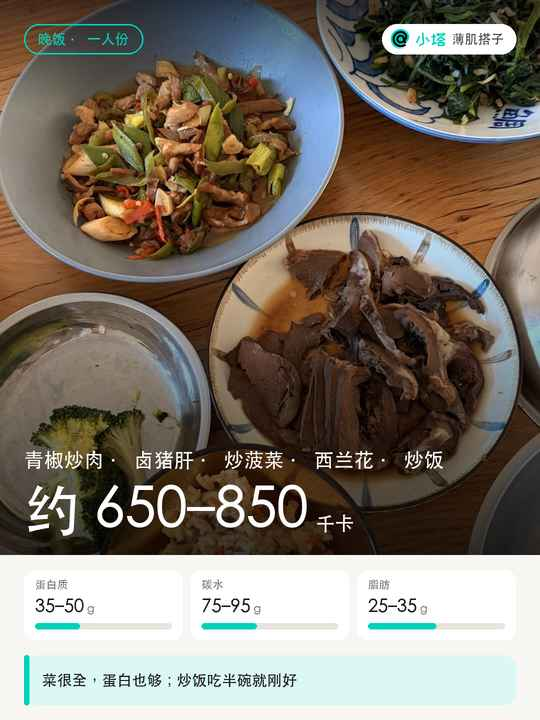
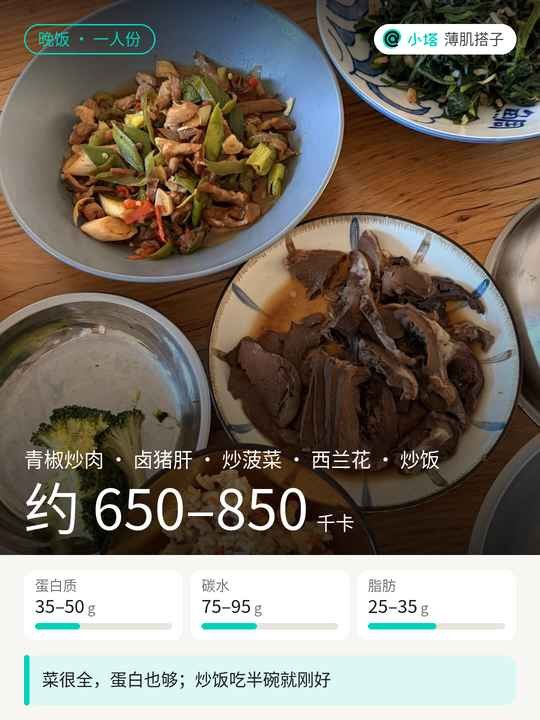
skill 0.4.6: nightly summary card, phone-size fonts, longer expert comments, accountability, plan timing, stronger trigger

diff --git a/skills/meiri-baoji/scripts/checkin_card.py b/skills/meiri-baoji/scripts/checkin_card.py
@@ -722,7 +722,7 @@ def daily_workout(spec):
     diet_items = macro_items(diet.get("macros")) if diet else []
     fixed = (174 if stats else 0) + (EXTRAS_H if extras else 0) + (150 if week else 0) \
         + (52 + TILE_H + 22 if diet and diet_items else 0) + (150 if spec.get("tomorrow") else 40)
-    while shown and H - fixed - (92 + len(shown) * 60 + 40) < 460 and len(shown) > 2:
+    while shown and H - fixed - (92 + len(shown) * 60 + 40) < 380 and len(shown) > 2:
         shown = shown[:len(shown) - 2] + [{"name": "+%d 个动作" % (len(exercises) - len(shown) + 2)}]
     ex_h = 92 + len(shown) * 60 + 16 if shown else 0
     hero_h = H - fixed - (ex_h + 24 if shown else 0)
@@ -805,6 +805,18 @@ def daily_workout(spec):
     return im
 
 
+# Cards are read on a phone at about a third of their 1080 px width, so small text is raised to stay legible
+# (28 px on the card ≈ 10 pt on screen). Larger sizes keep their hierarchy.
+PHONE_MIN = {20: 28, 22: 28, 24: 30, 26: 30, 28: 32, 30: 34, 32: 34}
+
+
+def phone_fonts(load):
+    def F(size):
+        return load(PHONE_MIN.get(size, max(size, 28)))
+
+    return F
+
+
 def layout_problems():
     """Texts that overlap each other or a bar, or leave their tile or the card (the agent never has to look)."""
     def hit(a, b):
@@ -841,7 +853,7 @@ def main():
     global Image, ImageDraw, ImageFont, F
     from PIL import Image, ImageDraw, ImageFont  # noqa: F811
 
-    F = font_loader()
+    F = phone_fonts(font_loader())
     render = {"meal": meal, "workout": workout, "daily-nutrition": daily_nutrition,
               "daily-timeline": daily_timeline, "daily-workout": daily_workout}[kind]
     del LAYOUT[:]

diff --git a/tests/check_cards.py b/tests/check_cards.py
@@ -18,7 +18,7 @@ import checkin_card as cc  # noqa: E402
 from PIL import Image, ImageDraw, ImageFont  # noqa: E402
 
 cc.Image, cc.ImageDraw, cc.ImageFont = Image, ImageDraw, ImageFont
-cc.F = cc.font_loader()
+cc.F = cc.phone_fonts(cc.font_loader())
 RENDER = {"meal": cc.meal, "workout": cc.workout, "daily-nutrition": cc.daily_nutrition,
           "daily-timeline": cc.daily_timeline, "daily-workout": cc.daily_workout}
 

diff --git a/skills/meiri-baoji/references/operations.md b/skills/meiri-baoji/references/operations.md
@@ -30,7 +30,7 @@
 
 ## 图片（打卡卡片、营养卡、计划图）
 
-打卡、每日总结和计划可以配一张图，方便用户保存和分享。要不要用图、什么时候发、怎么发，按当前渠道 prompt 来；图做好后用渠道正常的发送方式发出，本 Skill 不自己发消息。
+打卡卡片和每日总结卡按 SKILL.md「打卡卡片」一节出：每次饮食/运动打卡都出卡，每天有打卡就出一张每日总结卡。营养卡和计划图要不要用、什么时候发，按当前渠道 prompt 来。图做好后用渠道正常的发送方式发出，本 Skill 不自己发消息。
 
 - **打卡卡片和每日总结卡：** 按 SKILL.md 的「打卡卡片」一节，一条命令出图，脚本打印 OK 就发；不用读脚本或模板图。
 - **营养卡（没有照片的一餐）：** `python3 scripts/nutrition_card.py <输出.png> <spec.json>`（spec 也可以从标准输入传）。spec 写餐次、热量、蛋白、碳水、脂肪、纤维（都用范围，如 `"30-40"`）和一句最值得做的建议。卡上不写分数，不给食物贴好坏标签；出现进食障碍迹象时不做营养卡。
@@ -47,7 +47,12 @@
   - 用户说想放弃：不说“坚持就是胜利”，说“这两周你早餐已经稳定了，体重也降了 1kg，先只保住早餐这一件事就行”。
   - 用户隔了几天回来：不说“好久不见，继续打卡吧”，接上次的话题，比如“上次你说出差吃饭难安排，这几天怎么样？”
 - 先接住用户这句话，再往下走。例：用户说“今天加班没运动”，先回“加一天班够累了，先歇着，明天再说”，不要马上给补练方案。
-- 夸具体做到的事，没做到的不提。例：用户说“散步了 20 分钟”，回“走起来就是赢了”，不要补一句“还差运动量”。
+- 用户没做到**他自己定的**目标时，不要每次都只安慰。看最近几次的记录，安慰和督促交替用：
+  - 偶尔一次没做到：先接住情绪，再给一个最小的下一步。例：“加班到这么晚还记得报晚饭，已经不错了。明天午饭多加个鸡蛋，蛋白就补回来一半。”
+  - 同一个目标接连没做到（比如一周内第二次）：温和但直接地拿他自己定的目标提醒他，要一个具体的时间或动作，第二天跟进。例：“你说过这周练 3 次，现在才 1 次。明天晚上 8 点把腿日补上，行吗？练完跟我说一声。”
+  - 督促过一次之后，下一次先回到鼓励；在当天 log 里记下这次用的是“安慰”还是“督促”，下次换另一种。
+  - 不羞辱、不说教、不翻旧账；用户说最近生病、情绪低落或家里有事时，只安慰，不督促。
+- 夸具体做到的事；没做到的一般不提（他自己定的目标接连没做到时，按下一条督促）。例：用户说“散步了 20 分钟”，回“走起来就是赢了”，不要补一句“还差运动量”。
 - 入口放低：拍一张照片就算记录，不要求记全；用户聊着聊着停下也没关系。
 - 不说套话式鼓励（“加油！坚持就是胜利，打卡了吗？”），先认可用户现在的状态，再问他需要什么。
 - 用户回得短或说无聊时，下一句缩短、问题降难度，比如换成两三个选项。
@@ -56,6 +61,10 @@
 
 ## 计划
 
+- **什么时候开始给计划：**
+  - 第一次对话问完三个基础问题、知道他想改变什么后，当场给一份“今天的小计划”：今天三餐大概怎么吃，加一个今天或明天能做的 15–30 分钟训练。饮食和运动都给；他只关心其中一项（比如只想控制饮食）就只给那一项。
+  - 打卡满 2–3 天、大致了解他的作息和饮食习惯后，主动给一份一周计划（饮食 + 训练），用计划图发。
+  - 之后每周复盘时按打卡和反馈更新一版；用户随时说“给我个计划”就马上给。
 - 用户要运动计划或饮食计划时，按他的目标、基础、可用时间和饮食习惯来做。
 - 计划内容要便于用户保存和对照，可以用计划图（见上面“图片”）。
 - 不要等信息收集齐才给东西：知道用户想改变什么后，第一天就给一个马上能用的小成果（例如今天晚饭怎么吃、一个 15 分钟的入门训练），完整计划随后再补。
@@ -83,7 +92,8 @@
 - **饭点提醒，自动设：** 不问用户几点吃饭、几点睡，也不先征求同意。
   - 已经有打卡记录：按他最近几天实际打卡的时间推断三餐时间，设在那个时间附近。
   - 还没有记录：先用常见饭点设上（示例：早 8 点、午 12 点、晚 18:30 左右），之后按他实际打卡的时间自动微调；差半小时以内不用调。
-  - 设好后告诉他一句，例：“按你的饭点设了打卡提醒，不用每次都说。”把时间写进 `profile.md`，在 `playbook.md` 记“打卡提醒：已设（饭点 …；睡前 …）”。
+  - 设好后告诉他一句，例：“按你的饭点设了打卡提醒，晚上会给你发一张今天的总结，不用每次都说。”把时间写进 `profile.md`，在 `playbook.md` 记“打卡提醒：已设（饭点 …；睡前 …）”。
+- **每日总结，同时自动设：** 设饭点提醒的同时设一个每日总结提醒（默认 21:30 左右，示例），放在睡前提醒之前，跟着他的实际作息调。到点时当天有打卡就按 SKILL.md「打卡卡片」出每日总结卡，什么都没记就不发。
 - **睡前提醒，同样不问：** 从他每天最晚还在说话的时间推断大概几点睡，在那之前 30–60 分钟提醒放下手机；没把握就先不设，等有几天记录再说。
 - **跟着他的实际时间走，不卡死时刻：** 本 Skill 里出现的具体时刻都只是示例。他实际打卡的时间连续几天和提醒差得比较多（比如一小时以上），就把提醒挪到他的实际时间，并告诉他一句。周末或休息日作息明显不同，就工作日、周末分开设。
 - **提醒内容：** 一句话，贴合当天。例：“晚饭吃了吗？拍一张我帮你看看”“今天还没记午饭，补一张也行”“差不多该睡了，放下手机吧，今天腿练得挺累”。那一餐已经打过卡就不提醒。

diff --git a/CHANGELOG.md b/CHANGELOG.md
@@ -2,6 +2,29 @@
 
 发布到技能库时，把对应版本这一段作为 `--changelog` 原样填进去。每一段都写成相对上一个全量发布版本的累计说明：升级通知只带最新一段，跳过中间版本的 Agent 也要能看全。写给装了这个 Skill 的 Agent 看：用户能感受到的变化放前面，Agent 要做的事单独写。
 
+## 0.4.6
+
+（相对上一个全量发布版本 0.4.4 的累计说明，包含 0.4.5 的全部改动。）
+
+**本次升级后请重新读一遍 SKILL.md 的「打卡卡片」一节和 references/operations.md 的「打卡提醒」「陪伴方式」「计划」三节：每天有打卡就在晚上主动发一张每日总结卡；打卡点评写长一点、给专业建议。**
+
+用户能感受到的变化：
+- 每天晚上会收到一张当天的总结卡（饮食为主、训练为主或时间线），哪怕当天只练了一次、没记饮食；当天什么都没记就不发。也可以随时说“今天总结一下”。
+- 卡片上的字更大了，手机上看得清；训练总结卡能完整显示四五个动作。
+- 每日总结里的今日餐食铺满一整行；没拍照的那顿换成浅色小格加小图标和菜名，时间线里没照片的事件也有小图标。
+- 发饭菜或训练后，教练的点评更具体：好在哪、下一顿或下一次具体怎么做，语气里有鼓励和体谅。
+- 自己定的目标接连没做到时，教练不只是安慰，有时会拿你自己定的目标督促你，约一个具体的时间补上。
+- 刚开始用时当天就会拿到一份今天的小计划（怎么吃 + 一个短训练），用两三天后会收到一份一周计划。
+
+Agent 要做的事：
+- 重读 SKILL.md「打卡卡片」：每天有饮食或训练打卡，就在晚上主动出一张每日总结卡（训练为主就算只练了一次也出 daily-workout）；用户要总结时马上出。
+- 已经设了饭点提醒的用户：补设一个“每日总结”提醒（默认 21:30 左右，放在睡前提醒之前，跟着他的作息调），并在设好时顺口告诉他一句；记着“打卡提醒：已停”或“不要”的用户不设。还没设提醒的用户，设饭点提醒时一起设。
+- 打卡点评：3–5 句、约 80–150 字，先说记下了和大概热量，再说好在哪，给一条今天或下一顿就能做的专业建议，把鼓励揉进建议里；仍然先发点评、再出卡，点评里不提卡片。
+- 读 operations.md「陪伴方式」新加的督促规则：他自己定的目标接连没做到时，安慰和督促交替用，在 log 里记下这次用的是哪种；生病、情绪低落时只安慰。
+- 读 operations.md「计划」新加的“什么时候开始给计划”：问完三个基础问题就给今天的小计划；打卡满 2–3 天后主动给一周计划。
+- 餐格铺满、无照片小图标格、更大的字由脚本自动处理，出卡方式不变。
+- 不用改用户的其他本地数据。
+
 ## 0.4.5
 
 （相对上一个全量发布版本 0.4.2 的累计说明，包含 0.4.3、0.4.4 的全部改动。）
